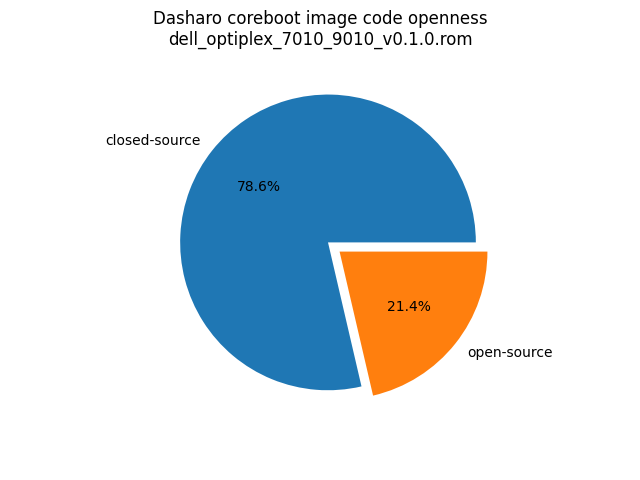
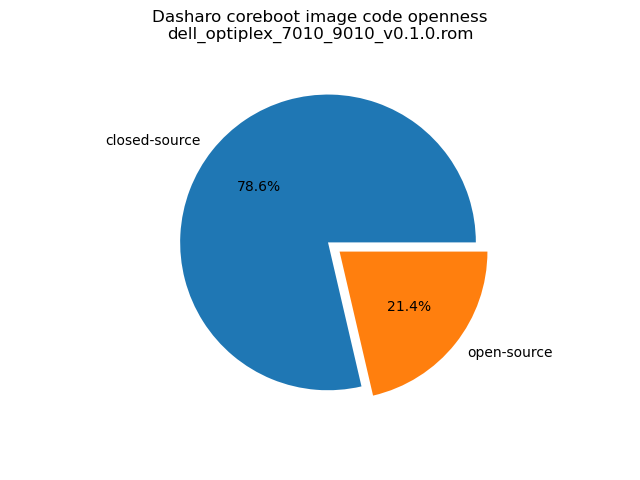
docs/variants/dell_optiplex: Update Openness Score

Changed region(s): [[0.2188, 0.0, 0.7812, 0.0938], [0.625, 0.625, 0.6875, 0.6562]]

diff --git a/docs/variants/dell_optiplex/openness-score.md b/docs/variants/dell_optiplex/openness-score.md
@@ -1,5 +1,11 @@
 # Dasharo Openness Score
 
+This page contains the [Dasharo Openness
+Score](../../glossary.md#dasharo-openness-score) for Dasharo releases
+compatible with Dell Optiplex 7010/9010. The content of the page is generated
+with [Dasharo Openness Score
+utility](https://github.com/Dasharo/Openness-Score).
+
 ## v0.1.0
 
 Openness Score for dell_optiplex_7010_9010_v0.1.0.rom
@@ -10,10 +16,10 @@ Closed-source code percentage: **78.6%**
 * Image size: 12582912 (0xc00000)
 * Number of regions: 13
 * Number of CBFSes: 1
-* Total open-source code size: 1715295 (0x1a2c5f)
+* Total open-source code size: 1715361 (0x1a2ca1)
 * Total closed-source code size: 6313984 (0x605800)
-* Total data size: 408509 (0x63bbd)
-* Total empty size: 4145124 (0x3f3fe4)
+* Total data size: 408571 (0x63bfb)
+* Total empty size: 4144996 (0x3f3f64)
 
 ![](dell_optiplex_7010_9010_v0.1.0.rom_openness_chart.png)
 
@@ -22,7 +28,7 @@ Closed-source code percentage: **78.6%**
 > Numbers given above already include the calculations from CBFS regions
 > presented below
 
-## FMAP regions
+### FMAP regions
 
 | FMAP region | Offset | Size | Category |
 | ----------- | ------ | ---- | -------- |
@@ -34,14 +40,14 @@ Closed-source code percentage: **78.6%**
 | FMAP | 0x860000 | 0x800 | data |
 | UNUSED | 0x600000 | 0x200000 | empty |
 
-## CBFS COREBOOT
+### CBFS COREBOOT
 
 * CBFS size: 3799040
 * Number of files: 15
-* Open-source files size: 1715295 (0x1a2c5f)
+* Open-source files size: 1715361 (0x1a2ca1)
 * Closed-source files size: 26624 (0x6800)
-* Data size: 9149 (0x23bd)
-* Empty size: 2047972 (0x1f3fe4)
+* Data size: 9211 (0x23fb)
+* Empty size: 2047844 (0x1f3f64)
 
 > Numbers given above are already normalized (i.e. they already include size
 > of metadata and possible closed-source LAN drivers included in the payload
@@ -51,16 +57,16 @@ Closed-source code percentage: **78.6%**
 | ------------- | ------------- | ---- | ----------- | -------- |
 | fallback/payload | simple elf | 1383398 | none | open-source |
 | fallback/romstage | stage | 110096 | none | open-source |
-| fallback/ramstage | stage | 139822 | LZMA | open-source |
+| fallback/ramstage | stage | 139824 | LZMA | open-source |
 | fallback/dsdt.aml | raw | 14827 | none | open-source |
 | fallback/postcar | stage | 32656 | none | open-source |
-| bootblock | bootblock | 34496 | none | open-source |
+| bootblock | bootblock | 34560 | none | open-source |
 | cpu_microcode_blob.bin | microcode | 26624 | none | closed-source |
 | cbfs_master_header | cbfs header | 32 | none | data |
-| config | raw | 3923 | LZMA | data |
-| revision | raw | 858 | none | data |
-| build_info | raw | 109 | none | data |
+| config | raw | 3928 | LZMA | data |
+| revision | raw | 863 | none | data |
+| build_info | raw | 114 | none | data |
 | vbt.bin | raw | 1438 | LZMA | data |
 | cmos.default | cmos_default | 256 | none | data |
 | cmos_layout.bin | cmos_layout | 1204 | none | data |
-| (empty) | null | 2047972 | none | empty |
+| (empty) | null | 2047844 | none | empty |
